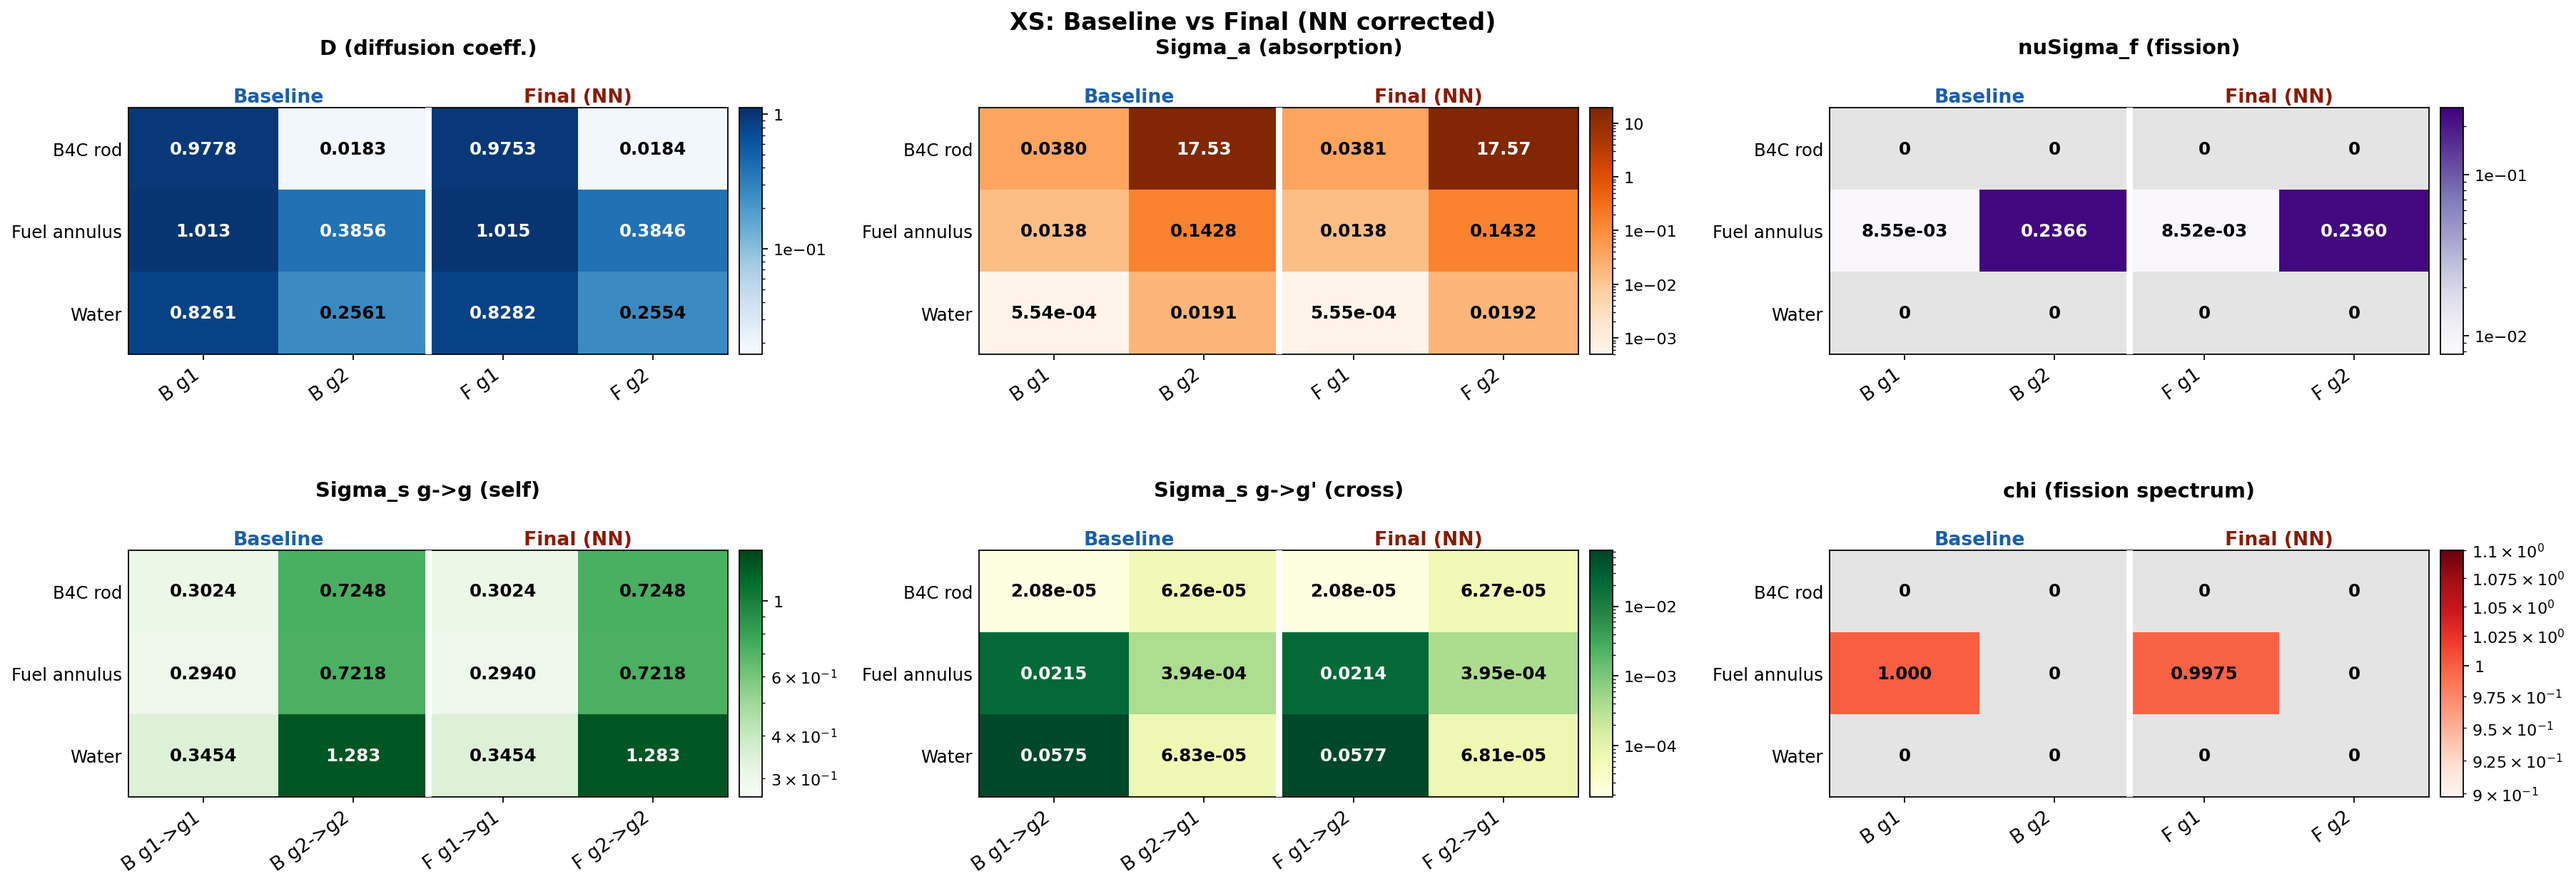
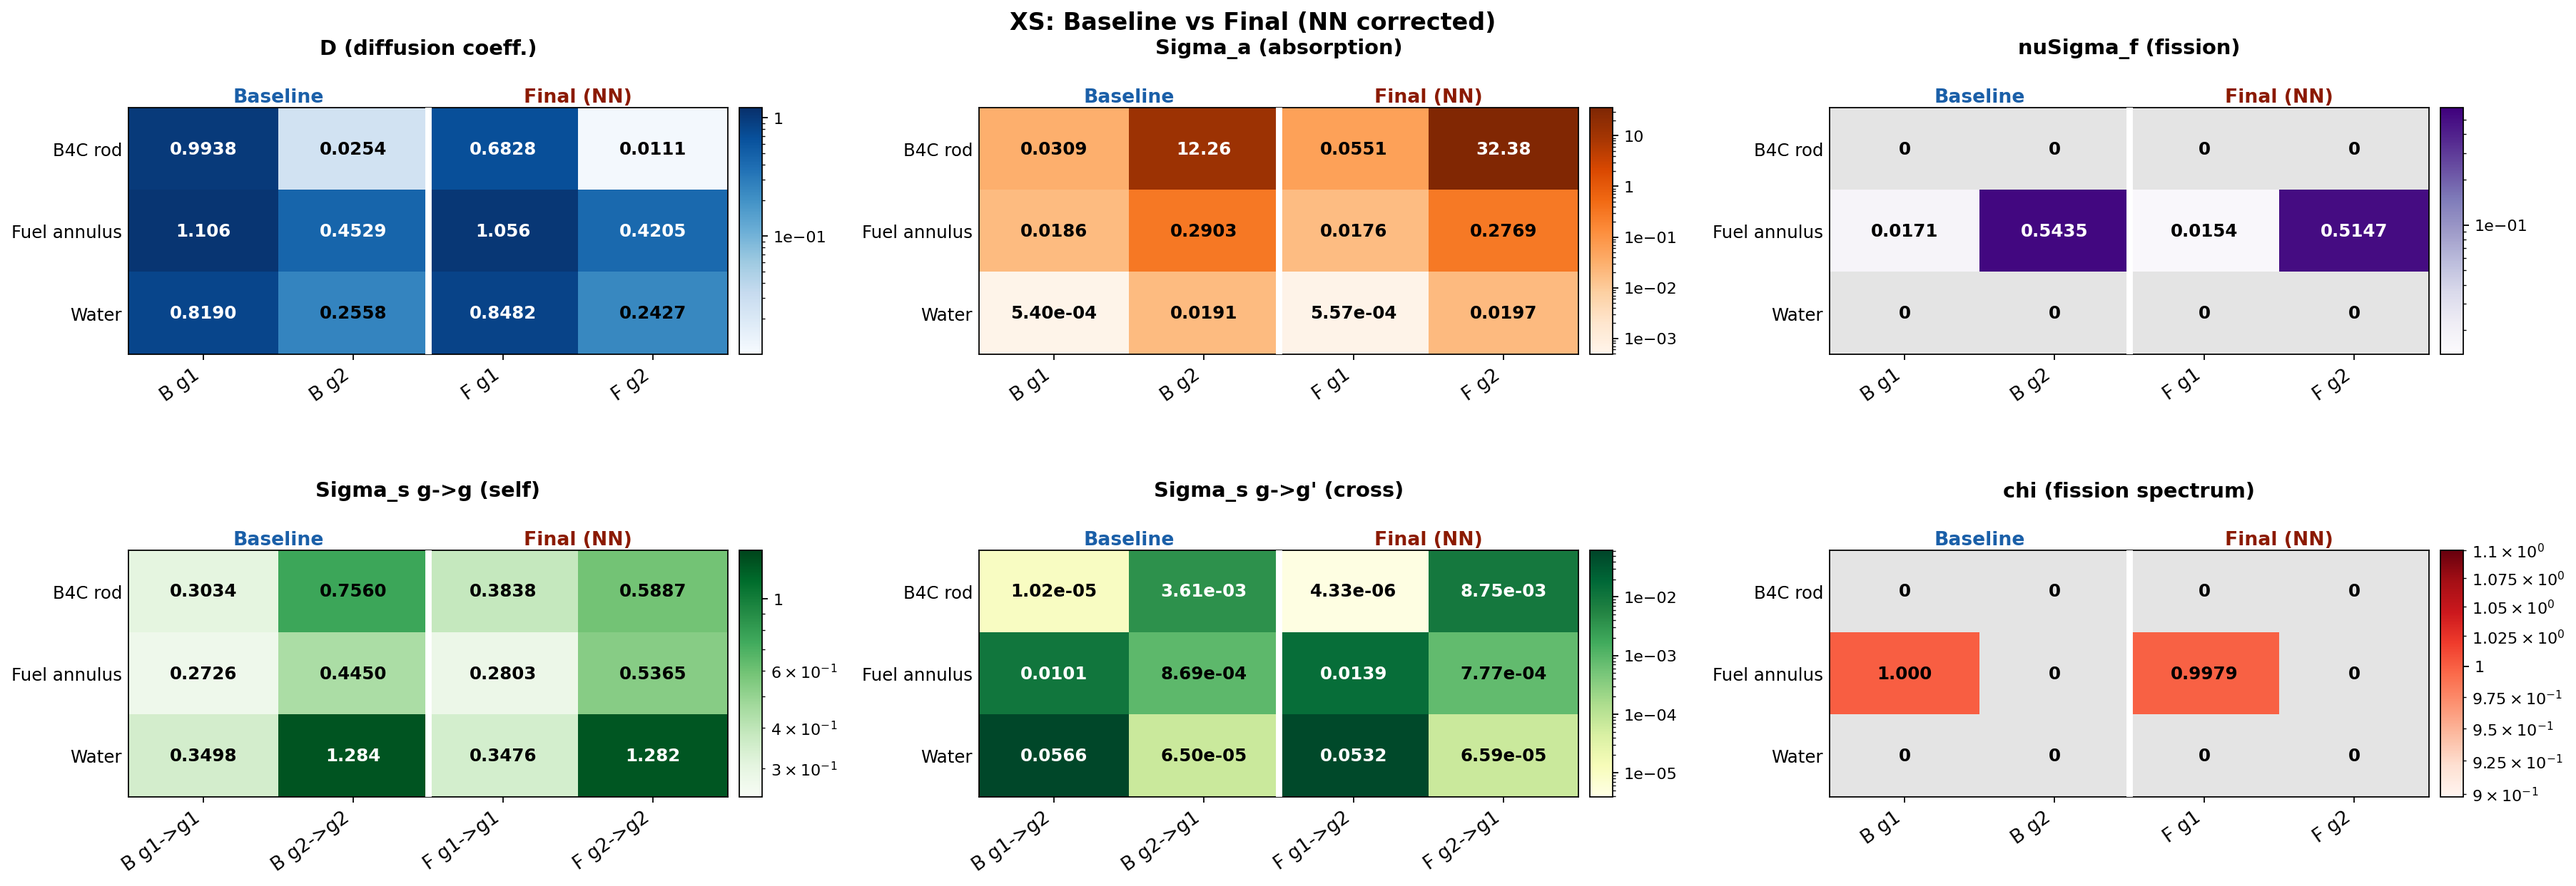
still trying to fix NN
added new training data, need to check it

diff --git a/modules/NTadaptation.py b/modules/NTadaptation.py
@@ -61,25 +61,26 @@ from solvers.NTdiffusion.diffusion_solver import (get_xs_basedon_geo, run_diffus
 # ─────────────────────────────────────────────
 # SECTION 0: variables initiation and global constants
 # ─────────────────────────────────────────────
-train_size    = 30
-test_size     = 5
-batch_size    = 30
-epochs        = 40
+train_size    = 100
+test_size     = 20
+batch_size    = 50
+epochs        = 30
 N_WORKERS = min(
-    int(os.environ.get("SLURM_CPUS_PER_TASK", 4)),
-    batch_size   # no point having more workers than samples to solve
+    int(os.environ.get("SLURM_CPUS_PER_TASK", 16)),
+    batch_size 
 )
 print(f"Using {N_WORKERS} parallel workers for solver")
 executor = ProcessPoolExecutor(max_workers=N_WORKERS, mp_context=ctx)
 print(f"SLURM_CPUS_PER_TASK = {os.environ.get('SLURM_CPUS_PER_TASK', 'NOT SET')}", flush=True)
 
-
+val_log_path   = "./LOGS/keff_epoch_log_val.csv"
+train_log_path = "./LOGS/keff_epoch_log_train.csv"
 # Redirect all print output to a log file
-loggy_file = open("training_log2.txt", "a", buffering=1)  # buffering=1 = write every line immediately
+loggy_file = open("training_log.txt", "a", buffering=1)  # buffering=1 = write every line immediately
 sys.stdout = loggy_file
 sys.stderr = loggy_file
-#print("JAX devices:", jax.devices())
-#print("Backend:", jax.default_backend())
+print("JAX devices:", jax.devices())
+print("Backend:", jax.default_backend())
 
 # predict the XS with the polynomial reg built in the other code
 # acts as a first guess???
@@ -909,8 +910,6 @@ def log_keff_batch(writer, filehandle, epoch, keff_preds, keff_refs, avg_train_l
                 f"{kpred:.6f}", f"{delta_rho_pcm:.1f}", avg_train_loss, avg_val_loss])
         filehandle.flush()
 
-val_log_path   = "./LOGS/keff_epoch_log_val.csv"
-train_log_path = "./LOGS/keff_epoch_log_train.csv"
 
 val_logfile   = open(val_log_path, "w", newline="", buffering=1)
 train_logfile = open(train_log_path, "w", newline="", buffering=1)
@@ -921,19 +920,6 @@ train_writer = csv.writer(train_logfile)
 header = ["epoch", "sample_idx", "keff_openmc", "keff_peds", "delta_rho_pcm", "train_loss", "val_loss"]
 val_writer.writerow(header)
 train_writer.writerow(header)
-
-# Save trunk weights at the epoch when validation loss first improves significantly
-# (once, not every epoch):
-def save_ewc_anchor(model, fisher_n_samples=10):
-    """Compute Fisher diagonal and save current trunk weights as anchor."""
-    params_anchor = {
-        name: jnp.array(p) 
-        for name, p in nnx.state(model.generator).items()
-        if 'layers' in name   # trunk only, not heads
-    }
-    # Fisher diagonal = squared gradient magnitude (importance estimate)
-    fisher = {k: jnp.zeros_like(v) for k, v in params_anchor.items()}
-    return params_anchor, fisher
 
 # ─────────────────────────────────────────────
 # SECTION 2: Neural Network (Generator)
@@ -1054,11 +1040,15 @@ class GeneratorNN(nnx.Module):
             x = nnx.relu(layer(x))         # x shape stays [batch, 64] after last layer
 
         #x = self.layers[-1](x)  # Final layer: linear projection → raw log-ratio output
-        # No activation here! exp() is applied in PEDSModel.__ call__ after multiplying by XS_SCALE.
-        # The NN just outputs unconstrained values; exp() in the caller guarantees positivity.
 
-        # Reshape flat vector [batch, 6] → spatial grid [batch,6]
-        #batch_size = geoms.shape[0]
+        region_outputs = []
+        for r, head in enumerate(self.heads):
+            # Concatenate trunk features WITH the log-baseline for this region
+            region_feat = jnp.concatenate(
+                [x, xs_baselines_log[:, r, :]], axis=-1   # [batch, trunk_out + 12]
+            )
+            region_outputs.append(head(region_feat))  # head now takes trunk_out+12 input
+
         region_outputs = [head(x) for head in self.heads]   # list of 3 × [batch, 12]
         # print(f"The last layer is {x}, the size of the batch being {batch_size} with a resolution of {self.resolution}")
         #return jnp.reshape(x, (batch_size, self.n_regions, self.xs_per_region))
@@ -1093,6 +1083,7 @@ class PEDSModel(nnx.Module):
         """Pure NN forward — called OUTSIDE jax.grad, returns concrete numpy."""
         batch_size = geoms.shape[0]
         geoms_flat = jnp.reshape(geoms, (batch_size, 6))
+        print(f"the geometry input to the NN is {geoms_flat[0]}!!!!!")
         xs_log_ratios = self.generator(geoms_flat, training=False)
         xs_final = jnp.exp(xs_log_ratios) * xs_baselines
         return np.array(xs_final)   # ← concrete numpy, exits JAX world
@@ -1196,15 +1187,11 @@ def train(filepath, train_size, test_size, batch_size, epochs, lr_max, lr_min,
     print(f"Train keff range: {train_keffs.min():.3f} – {train_keffs.max():.3f}")
     print(f"Test  keff range: {test_keffs.min():.3f}  – {test_keffs.max():.3f}")
     
-# ── Initialize EWC state before the epoch loop ──────────────────────
-    best_val_loss = float('inf')
-    ewc_anchor_flat = None
-    ewc_fisher_flat = None
-    ewc_saved = False  # Track if the anchor is saved yet
     # ── 5.2  Model & Optimiser ─────────────────────────────────────────────
     # nnx.Rngs(seed) creates a named-key container to get a fresh, unique PRNGKey.
     rngs  = nnx.Rngs(seed)
     model = PEDSModel(hidden_sizes=hidden_sizes, n_regions=n_regions, G=G, rngs=rngs)
+
     # Cosine decay schedule: learning rate anneals smoothly from lr_max → lr_min.
     # `alpha` is the ratio min/max, so the schedule bottoms out at lr_min.
     lr_schedule = optax.join_schedules(
@@ -1228,40 +1215,18 @@ def train(filepath, train_size, test_size, batch_size, epochs, lr_max, lr_min,
         # model is passed explicitly so nnx.value_and_grad knows which pytree to differentiate with respect to.
         with timer("loss_fn forward pass", verbose=False):
             keff_pred, _ = model(geoms, rawparams_batch, xs_baselines_batch, training=True) # keff predicted by PEDS model
-            print(f"the prediction gives a keff of {keff_pred.primal} (size {keff_pred.size}), \n compared to {keffs_true} (size {keffs_true.size})")
+            print(f"the prediction gives a keff of {keff_pred} (size {keff_pred.size}), \n compared to {keffs_true} (size {keffs_true.size})")
         
         reactivity_residuals = (keff_pred - keffs_true) / (keff_pred * keffs_true) 
-        residuals = keff_pred - keffs_true
+        #residuals = keff_pred - keffs_true
         BETA_EFF = 650e-5  # pcm 
         
         # Dynamic weight: quadratic in how much the error exceeds β_eff.
         normalized_err = jnp.abs(reactivity_residuals) / BETA_EFF
         #penalising_weight = jnp.maximum(1.0, normalized_err ** 2)
-        #weight = jnp.minimum(jnp.maximum(1.0, normalized_err), 4.0)  # linear, capped at 4×
-        weight = jnp.where(
-            normalized_err <= 1.0,
-            0.3,                                    # try to anchor samples that already have low error 
-            jnp.minimum(normalized_err, 4.0)             # capped linear for hard samples
-        )
-        #penalising_weight = jnp.where(jnp.abs(reactivity_residuals) > BETA_EFF, 3.0, 1.0)
-        loss_value = jnp.mean(weight * reactivity_residuals ** 2)  
+        weight = jnp.minimum(jnp.maximum(1.0, normalized_err), 4.0)  # linear, capped at 4×
         
-        if ewc_saved and ewc_anchor_flat is not None:   
-            ewc_lam = 0.05  # Start with 0.05, tune between 0.01-0.1
-            # Get current trunk state and flatten it the same way
-            full_state = nnx.state(model.generator)
-            trunk_state = nnx.State({
-                k: v for k, v in full_state.items() 
-                if 'layers' in k and 'heads' not in k
-            })
-            current_flat, _ = jax.tree_util.tree_flatten(trunk_state)
-            
-            # Compute L2 penalty between current and anchor
-            penalty = sum(
-                jnp.sum(fisher * (curr - anchor) ** 2)
-                for curr, anchor, fisher in zip(current_flat, ewc_anchor_flat, ewc_fisher_flat)
-            )
-            loss_value = loss_value + ewc_lam * penalty
+        loss_value = jnp.mean(weight * reactivity_residuals ** 2)  
 
         return loss_value, keff_pred
     
@@ -1310,13 +1275,6 @@ def train(filepath, train_size, test_size, batch_size, epochs, lr_max, lr_min,
 
     sample_weights = np.ones(train_size, dtype=np.float32)  # uniform initially
 
-    def weighted_data_loader(arrays, batch_size, weights):
-        """Sample batches with probability proportional to weights."""
-        n = arrays[0].shape[0]
-        probs = weights / weights.sum()
-        indices = np.random.choice(n, size=batch_size, replace=False, p=probs)
-        return tuple(arr[indices] for arr in arrays), indices
-
     print("Precomputing XS baselines for all samples (done once)...")
     train_xs_baselines = compute_batch_baselines(train_rawparams, GEO)  # [train_size, 3, 12]
     test_xs_baselines  = compute_batch_baselines(test_rawparams, GEO)   # [test_size,  3, 12]
@@ -1335,6 +1293,7 @@ def train(filepath, train_size, test_size, batch_size, epochs, lr_max, lr_min,
         # ── Open keff log file ────────────────────────────────────────────────
 
     count = 0
+
     for epoch in range(epochs):
         count += 1
         print(f"entering the epoch loop, at epoch {epoch} which is")
@@ -1421,29 +1380,6 @@ def train(filepath, train_size, test_size, batch_size, epochs, lr_max, lr_min,
         # Validation (no gradient tracking needed)
         with timer("validation step"):
             avg_val_loss, avg_pct_err, keff_preds, keff_refs = validation_step(test_geoms, test_keffs, test_rawparams)
-    
-        # Check if validation improved AND we haven't saved the anchor yet
-        if avg_val_loss < best_val_loss and not ewc_saved:
-            best_val_loss = avg_val_loss
-            print(f"Saving EWC anchor at epoch {epoch} with val_loss={avg_val_loss:.4f}")
-            
-            # Get all trainable parameters from the trunk (flatten to get actual arrays)
-            full_state = nnx.state(model.generator)
-            # Filter for trunk parameters only
-            trunk_state = nnx.State({
-                k: v for k, v in full_state.items() 
-                if 'layers' in k and 'heads' not in k
-            })
-            
-            # Flatten to get actual JAX arrays
-            ewc_anchor_flat, ewc_tree_def = jax.tree_util.tree_flatten(trunk_state)
-            ewc_fisher_flat = [jnp.ones_like(arr) for arr in ewc_anchor_flat]
-            
-            print(f"  Saved {len(ewc_anchor_flat)} trunk parameter arrays")
-            for i, arr in enumerate(ewc_anchor_flat[:3]):  # Show first 3
-                print(f"    Array {i}: shape={arr.shape}")
-            
-            ewc_saved = True
 
         # ── Write per-sample keff values to the log file ─────────────────────
         log_keff_batch(val_writer, val_logfile, epoch, keff_preds, keff_refs, avg_train_loss, avg_val_loss)
@@ -1642,6 +1578,76 @@ def visualise_results(
     plt.close()
     print(f"\nFigure saved to: {save_path}")
 
+def solver_floor_check(train_rawparams, train_keffs, n_samples=20):
+    """
+    Bypasses the NN entirely. Directly optimizes XS to match OpenMC k.
+    Tells you: what is the best the diffusion solver can ever achieve?
+    """
+    print("\n" + "="*60)
+    print("=== SOLVER FLOOR CHECK ===")
+    print("="*60)
+
+    # Use a unique sample_id slot that won't collide with training
+    # (training uses IDs 0..train_size-1, we use 9999 here)
+    SENTINEL_ID = 9999
+    sid = jnp.array([SENTINEL_ID], dtype=jnp.int32)
+
+    results = []
+    for i in range(min(n_samples, len(train_rawparams))):
+        geo_i    = update_geo(GEO, train_rawparams[i])
+        k_mc     = float(train_keffs[i])
+        params_i = jnp.array(train_rawparams[i], dtype=jnp.float32)
+
+        # Start from the regression baseline XS for this geometry
+        xs = jnp.array(predict_xs(geo_i), dtype=jnp.float32)
+        print(f"before optimization, sample {i} has starting k = {float(NTdiff_solver(xs, params_i, sid)):.4f} vs k_mc = {k_mc:.4f} \n with a set of baseline xs = {predict_xs(geo_i)}")
+        # Warm up the cache for this sample using the sentinel ID
+        _ = NTdiff_solver(xs, params_i, sid)
+
+        # Simple gradient descent directly on XS — no NN
+        lr = 1e-4   # conservative: XS values are ~O(1), reactivity ~O(1e-4)
+        k_history = []
+
+        for step in range(30):
+            # get gradient dk/dXS via the custom VJP
+            _, vjp_fn = jax.vjp(NTdiff_solver, xs, params_i, sid)
+            k_diff    = float(NTdiff_solver(xs, params_i, sid))
+            k_history.append(k_diff)
+
+            # reactivity residual dL/dk  (derivative of MSE loss w.r.t. k)
+            rho_residual = (k_diff - k_mc) / (k_diff * k_mc)   # in 1/pcm units
+            dL_dk        = 2.0 * rho_residual / (k_diff * k_mc)
+
+            grad_xs = vjp_fn(jnp.array(dL_dk))[0]
+            xs      = xs - lr * grad_xs
+            if step == 1 or step ==10 or step == 20 or step == 29:
+                print(f"the xs after the gradient opti are {xs} with the gradient {grad_xs} and the reactivity residual {rho_residual*1e5} at step {step}")
+
+            # enforce physical positivity — XS cannot be negative
+            xs = jnp.clip(xs, 1e-6, None)
+
+        k_final    = float(NTdiff_solver(xs, params_i, sid))
+        delta_rho  = abs(k_final - k_mc) / (k_final * k_mc) * 1e5
+        k_baseline = float(NTdiff_solver(
+            jnp.array(predict_xs(geo_i), dtype=jnp.float32), params_i, sid))
+        delta_rho_baseline = abs(k_baseline - k_mc) / (k_baseline * k_mc) * 1e5
+
+        log_ratios = jnp.log(xs / jnp.array(predict_xs(geo_i)))
+        print(f"  log_ratio range: [{float(log_ratios.min()):.2f}, {float(log_ratios.max()):.2f}]")
+        print(f"  XS changed by factors: [{float(jnp.exp(log_ratios.min())):.2f}, {float(jnp.exp(log_ratios.max())):.2f}]")
+
+        flag = " ← SOLVER FLOOR (diffusion limit)" if delta_rho > 650 else " ✓ reachable"
+        print(f"  S{i:3d}  k_mc={k_mc:.4f}  "
+              f"baseline_err={delta_rho_baseline:.0f} pcm  "
+              f"optimized_err={delta_rho:.0f} pcm{flag}")
+        results.append(delta_rho)
+
+    results = np.array(results)
+    print(f"\n  Mean optimized error : {results.mean():.0f} pcm")
+    print(f"  Samples above 650 pcm: {(results > 650).sum()} / {len(results)}  "
+          f"(these are diffusion-limited)")
+    print("="*60 + "\n")
+    return results
 
 # ─────────────────────────────────────────────
 # MAIN
@@ -1657,8 +1663,8 @@ if __name__ == "__main__":
         test_size     = test_size,
         batch_size    = batch_size,
         epochs        = epochs,
-        lr_max        = 5e-5,   # cosine schedule peak learning rate
-        lr_min        = 1e-6,   # cosine schedule floor learning rate
+        lr_max        = 5e-4,   # cosine schedule peak learning rate
+        lr_min        = 5e-6,   # cosine schedule floor learning rate
         hidden_sizes  = [128, 128, 64],  # matches model config m1
         n_regions    = 3,    # b4c_rod, fuel_annulus, water
         G            = 2,    # energy groups
@@ -1668,12 +1674,14 @@ if __name__ == "__main__":
     # ══════════════════════════════════════════════════════════
     # DEBUG BLOCK 
     # ══════════════════════════════════════════════════════════
-    """ print("Running gradient check BEFORE training...")
+    print("Running gradient check BEFORE training...")
     # Load just one sample to test with
     (train_geoms, train_keffs, train_rawparams), _ = load_data(
         HP["filepath"], HP["train_size"], HP["test_size"], seed=42)
     
-    xs_check     = jnp.array(XS_BASELINE, dtype=jnp.float32)
+    #solver_floor_check(train_rawparams, train_keffs, n_samples=20)
+
+    """ xs_check     = jnp.array(XS_BASELINE, dtype=jnp.float32)
     params_check = jnp.array(train_rawparams[0], dtype=jnp.float32)
     id_check     = jnp.array([0], dtype=jnp.int32)
 
